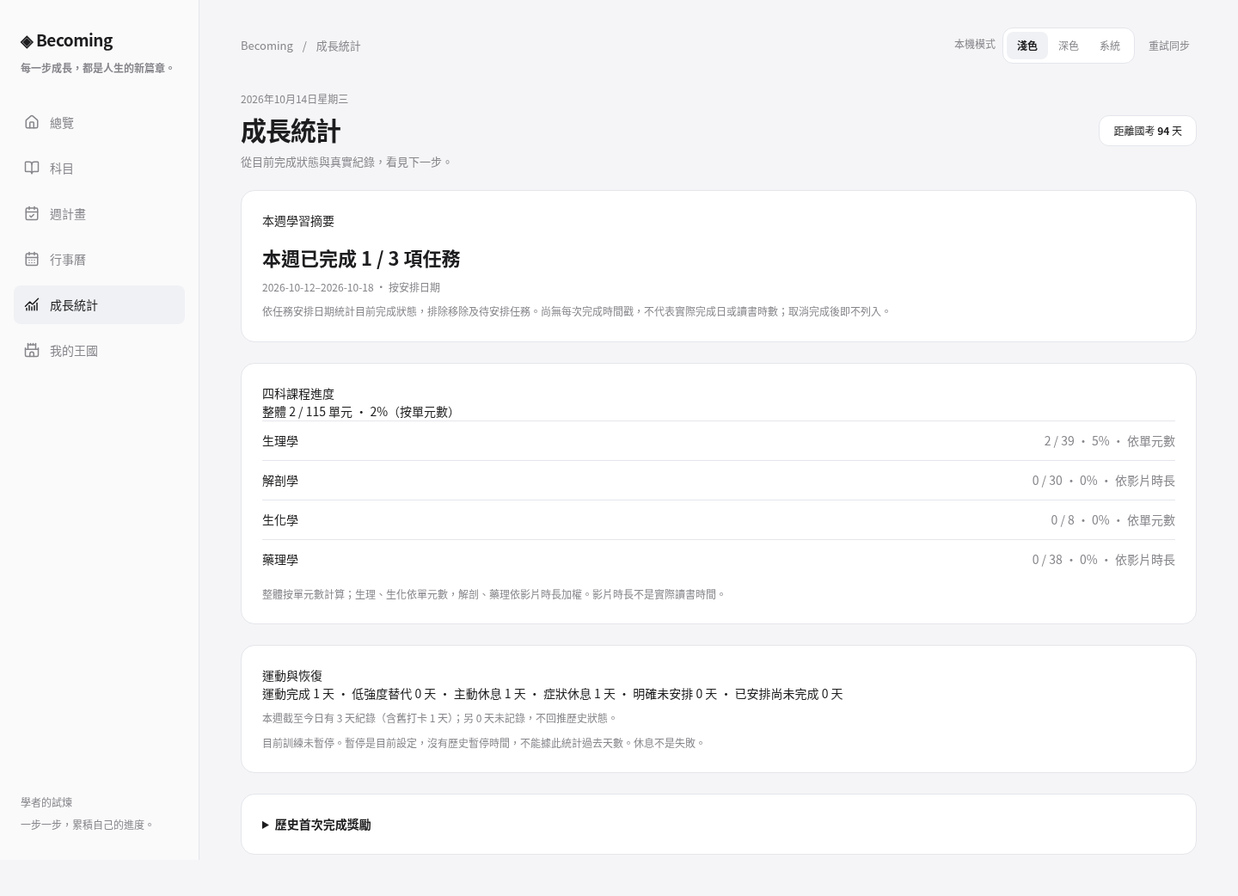
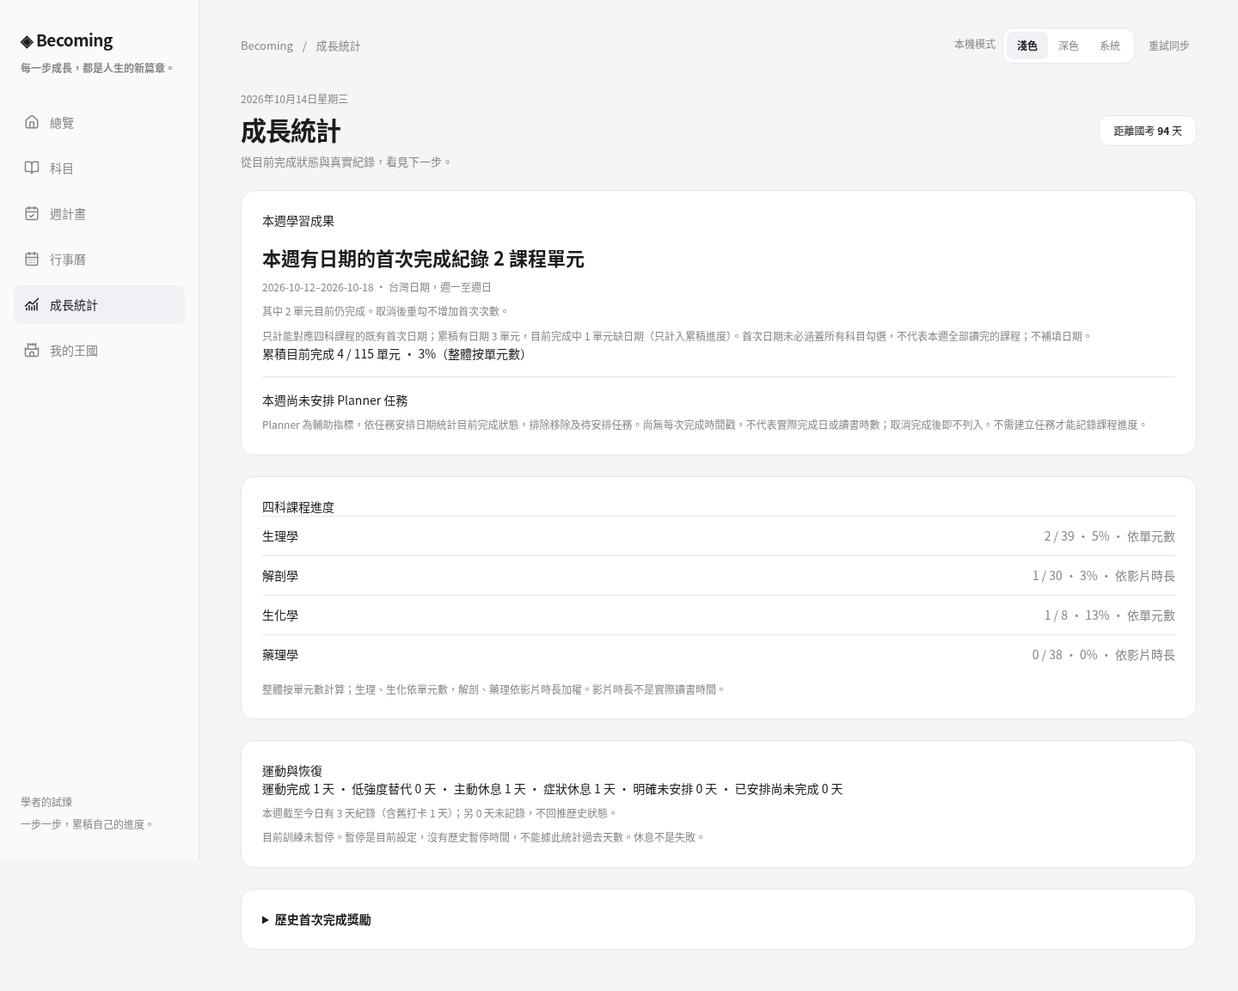
Prioritize course-backed learning outcomes in growth summary

diff --git a/tests/browser/growth.spec.js b/tests/browser/growth.spec.js
@@ -3,15 +3,29 @@ async function go(page,tab){await page.waitForFunction(()=>typeof window.updateW
 test.beforeEach(async({page})=>{await page.route('**/*',r=>new URL(r.request().url()).hostname==='127.0.0.1'?r.continue():r.abort());await page.clock.install({time:new Date('2026-10-14T04:00:00Z')});});
 async function seed(page){await page.addInitScript(()=>{if(localStorage.getItem('med_exam_daily_planner_v3_local'))return;localStorage.setItem('med_exam_daily_planner_v3_local',JSON.stringify({tasks:{a:{title:'已完成單元',date:'2026-10-12',minutes:null,complete:true,deleted:false,award:{xp:20,day:'2026-10-12'}},cancel:{title:'取消完成',date:'2026-10-12',complete:false,deleted:false,award:{xp:20,day:'2026-10-12'}},removed:{title:'已移除',date:'2026-10-12',complete:true,deleted:true,award:{xp:20,day:'2026-10-12'}}},pending:{}}));localStorage.setItem('med_exam_physio_cloud',JSON.stringify({fc_p_1_a:true}));localStorage.setItem('med_exam_habits_2026-10-12',JSON.stringify({'daily-sport':true}));localStorage.setItem('med_exam_habits_2026-10-13',JSON.stringify({questOS_v1:{exercise:{type:'rest',status:'not_scheduled'}}}));localStorage.setItem('med_exam_habits_2026-10-14',JSON.stringify({questOS_v1:{exercise:{type:'walk',status:'symptom_rest'}}}));});}
 test('growth separates current scheduled task completion from reward history and dated recovery',async({page})=>{
- await seed(page);await page.goto('/');await go(page,'stats');await expect(page.locator('#page-title')).toHaveText('成長統計');await expect(page.locator('#growth-week-tasks')).toHaveText('本週已完成 1 / 2 項任務');await expect(page.locator('#growth-week')).toContainText('依任務安排日期');await expect(page.locator('#growth-subjects [data-subject=videos]')).toContainText('依影片時長');await expect(page.locator('#growth-course-total')).toContainText('1 / 115');await expect(page.locator('#weekly-detail')).toContainText('獎勵 3 筆');await expect(page.locator('#growth-exercise')).toContainText('運動完成 1 天');await expect(page.locator('#growth-exercise')).toContainText('主動休息 1 天');await expect(page.locator('#growth-exercise')).toContainText('症狀休息 1 天');await expect(page.locator('#tab-content-stats #progress-trend-card')).toHaveCount(0);await go(page,'home');await page.locator('#planner-date').fill('2026-10-12');await page.locator('[data-task-id=a] input[type=checkbox]').uncheck();await go(page,'stats');await expect(page.locator('#growth-week-tasks')).toHaveText('本週已完成 0 / 2 項任務');await expect(page.locator('#weekly-detail')).toContainText('獎勵 3 筆');
+ await seed(page);await page.goto('/');await go(page,'stats');await expect(page.locator('#page-title')).toHaveText('成長統計');await expect(page.locator('#growth-week-tasks')).toHaveText('本週 Planner 已完成 1 / 2 項任務（依安排日期）');await expect(page.locator('#growth-week')).toContainText('依任務安排日期');await expect(page.locator('#growth-subjects [data-subject=videos]')).toContainText('依影片時長');await expect(page.locator('#growth-course-total')).toContainText('1 / 115');await expect(page.locator('#weekly-detail')).toContainText('獎勵 3 筆');await expect(page.locator('#growth-exercise')).toContainText('運動完成 1 天');await expect(page.locator('#growth-exercise')).toContainText('主動休息 1 天');await expect(page.locator('#growth-exercise')).toContainText('症狀休息 1 天');await expect(page.locator('#tab-content-stats #progress-trend-card')).toHaveCount(0);await go(page,'home');await page.locator('#planner-date').fill('2026-10-12');await page.locator('[data-task-id=a] input[type=checkbox]').uncheck();await go(page,'stats');await expect(page.locator('#growth-week-tasks')).toHaveText('本週 Planner 已完成 0 / 2 項任務（依安排日期）');await expect(page.locator('#weekly-detail')).toContainText('獎勵 3 筆');
 });
 for(const width of [390,1440])test('lord identity and accessible chronicles entry work without exposing personal account data at '+width+'px',async({page})=>{
  await page.setViewportSize({width,height:900});await seed(page);await page.goto('/');await go(page,'kingdom');await expect(page.locator('#lord-name')).toHaveText('我的領主');await expect(page.locator('.lord-emblem')).toBeVisible();expect(await page.locator('.lord-emblem').evaluate(e=>e.complete&&e.naturalWidth>0)).toBe(true);await expect(page.locator('#lord-achievements-count')).toHaveText('已解鎖 2 / 3 項成就');await expect(page.locator('#lord-study-count')).toHaveText('已完成 1 學習單元');await expect(page.locator('#lord-chapter')).toHaveText('Chapter I · 學者的試煉');const before=await page.evaluate(()=>localStorage.getItem('med_exam_daily_planner_v3_local'));const entry=page.locator('#lord-open-chronicles');await entry.focus();await entry.press('Enter');await expect(page.locator('#kingdom-chronicles')).toHaveAttribute('open','');await expect(page.locator('#kingdom-chronicles > summary')).toBeFocused();await expect(page.locator('#achievements .unlocked')).toHaveCount(2);await expect(page.locator('#xp-detail')).toHaveText('60 XP');const top=await page.locator('#kingdom-chronicles').evaluate(e=>e.getBoundingClientRect().top);expect(top).toBeGreaterThanOrEqual(-1);expect(top).toBeLessThan(200);expect(await page.evaluate(()=>localStorage.getItem('med_exam_daily_planner_v3_local'))).toBe(before);expect(await page.evaluate(()=>document.documentElement.scrollWidth<=innerWidth)).toBe(true);const order=await page.locator('#tab-content-kingdom > *').evaluateAll(es=>es.map(e=>e.id||e.className));expect(order.findIndex(v=>v.includes('lord-profile'))).toBe(0);expect(order.indexOf('kingdom-chronicles')).toBeLessThan(order.findIndex(v=>v.includes('kingdom-reality')));await go(page,'stats');expect(await page.evaluate(()=>document.documentElement.scrollWidth<=innerWidth)).toBe(true);
 });
 test('growth empty states and historical pause limitations are explicit',async({page})=>{
- await page.goto('/');await go(page,'stats');await expect(page.locator('#growth-week-dates')).toContainText('尚無有效安排');await expect(page.locator('#growth-exercise-records')).toContainText('尚無運動日紀錄');await expect(page.locator('#growth-training-paused')).toContainText('沒有歷史暫停時間');await expect(page.locator('#growth-award-total')).toContainText('累積 0 筆');
+ await page.goto('/');await go(page,'stats');await expect(page.locator('#growth-week-dates')).toContainText('台灣日期');await expect(page.locator('#growth-exercise-records')).toContainText('尚無運動日紀錄');await expect(page.locator('#growth-training-paused')).toContainText('沒有歷史暫停時間');await expect(page.locator('#growth-award-total')).toContainText('累積 0 筆');
 });
 
 for(const width of [390,1440])test('single week trend stays in plan and all three course basis notes agree at '+width+'px',async({page})=>{
  await page.setViewportSize({width,height:900});await seed(page);await page.goto('/');await go(page,'home');const home=await page.locator('#tab-content-home [data-course-progress-basis]').textContent();await go(page,'stats');await expect(page.locator('#tab-content-stats #progress-trend-card')).toHaveCount(0);expect(await page.locator('#tab-content-stats [data-course-progress-basis]').textContent()).toBe(home);await go(page,'kingdom');expect(await page.locator('#tab-content-kingdom [data-course-progress-basis]').textContent()).toBe(home);await expect(page.locator('#kingdom-subjects [data-subject=videos]')).toContainText('依影片時長');await expect(page.locator('#kingdom-subjects [data-subject=pharmacology]')).toContainText('依影片時長');await go(page,'plan');await expect(page.locator('#tab-content-plan #progress-trend-card')).toBeVisible();await expect(page.locator('#progress-trend-card')).toContainText('不是過去各週的完成快照');await expect(page.locator('#progress-trend-card .recharts-wrapper')).toBeVisible();await page.evaluate(()=>window.switchTrendChartMode('rolling'));await expect(page.locator('#progress-trend-card .recharts-wrapper')).toBeVisible();await expect(page.locator('#progress-trend-card')).toHaveCount(1);await expect(page.locator('#tab-content-plan #adaptive-plan')).toBeVisible();expect(await page.evaluate(()=>document.documentElement.scrollWidth<=innerWidth)).toBe(true);
+});
+
+test('direct subject completion updates cumulative course results without Planner or invented first dates',async({page})=>{
+ await page.goto('/');await page.waitForFunction(()=>typeof window.updateWorkspace==='function');await page.evaluate(()=>window.showStudyItem('physiology','fc_p_1_a'));await page.locator('[data-study-key="physiology__fc_p_1_a"] input').check();await go(page,'stats');await expect(page.locator('#growth-course-total')).toContainText('1 / 115');await expect(page.locator('#growth-week-tasks')).toHaveText('本週尚未安排 Planner 任務');await expect(page.locator('#growth-course-coverage')).toContainText('1 單元缺日期');await expect(page.locator('#growth-week-courses')).toContainText('尚缺課程日期');expect(await page.evaluate(()=>JSON.parse(localStorage.getItem('med_exam_gamification_v1')||'{}').awards||{})).toEqual({});await go(page,'home');await expect(page.locator('#overall-detail')).toHaveText('1 / 115 項目');
+});
+test('dated course-only records remain stable on cancel and recheck and exclude Planner/time rewards',async({page})=>{
+ await page.addInitScript(()=>{localStorage.setItem('med_exam_physio_cloud',JSON.stringify({fc_p_1_a:true}));localStorage.setItem('med_exam_gamification_v1',JSON.stringify({days:{},awards:{physiology__fc_p_1_a:{xp:20,day:'2026-10-12'},planner__other:{xp:20,day:'2026-10-12'},time__2026_10_12__morning:{xp:20,day:'2026-10-12'},physiology__orphan:{xp:20,day:'2026-10-12'}}}));});await page.goto('/');await go(page,'stats');await expect(page.locator('#growth-week-courses')).toHaveText('本週有日期的首次完成紀錄 1 課程單元');await expect(page.locator('#growth-course-total')).toContainText('1 / 115');await expect(page.locator('#growth-week-tasks')).toHaveText('本週尚未安排 Planner 任務');const before=await page.evaluate(()=>localStorage.getItem('med_exam_gamification_v1'));await page.evaluate(()=>window.showStudyItem('physiology','fc_p_1_a'));await page.locator('[data-study-key="physiology__fc_p_1_a"] input').uncheck();await go(page,'stats');await expect(page.locator('#growth-week-courses')).toContainText('1 課程單元');await expect(page.locator('#growth-course-history-state')).toContainText('1 單元目前未勾選完成');await expect(page.locator('#growth-course-total')).toContainText('0 / 115');await page.evaluate(()=>window.showStudyItem('physiology','fc_p_1_a'));await page.locator('[data-study-key="physiology__fc_p_1_a"] input').check();await go(page,'stats');await expect(page.locator('#growth-week-courses')).toContainText('1 課程單元');expect(await page.evaluate(()=>localStorage.getItem('med_exam_gamification_v1'))).toBe(before);
+});
+test('remote and offline course award snapshots count stable IDs once without creating new rewards',async({page})=>{
+ await page.route('**/owner-config.js',r=>r.fulfill({contentType:'application/javascript',body:"export const OWNER_UID='test-owner';"}));await page.addInitScript(()=>{
+ Object.defineProperty(window,'workspaceLocalOnly',{get:()=>false,set:()=>{}});const records={physiology:{fc_p_1_a:true},biochem:{},gamification:{v1:{awards:{physiology__fc_p_1_a:{xp:20,day:'2026-10-12'}}}}},listeners=[];let online=true;const get=path=>path?path.split('/').reduce((v,k)=>v?.[k],records)??null:records,snap=path=>({val:()=>path==='.info/connected'?online:structuredClone(get(path))});const notify=()=>listeners.forEach(l=>{if(online||l.path==='.info/connected')l.fn(snap(l.path));});
+ const db={ref:(path='')=>({on(e,fn){listeners.push({path,fn});setTimeout(()=>fn(snap(path)),0);},async once(){if(!online)throw {code:'NETWORK_ERROR'};return snap(path);},async transaction(fn){if(!online)throw {code:'NETWORK_ERROR'};const value=fn(structuredClone(get(path)));return {committed:value!==undefined,snapshot:snap(path)};},async update(){if(!online)throw {code:'NETWORK_ERROR'};}})};
+ window.firebase={apps:[],initializeApp(){this.apps.push({});},auth:()=>({onAuthStateChanged:cb=>setTimeout(()=>cb({uid:'test-owner'}),0)}),database:()=>db};window.courseMock={records,remote(kind){if(kind===2){records.biochem['1']=true;records.gamification.v1.awards.biochem__1={xp:20,day:'2026-10-13'};}else{records.physiology.fc_p_1_b=true;records.gamification.v1.awards.physiology__fc_p_1_b={xp:20,day:'2026-10-14'};}notify();},setOnline(value){online=value;notify();if(value)window.dispatchEvent(new Event('online'));}};
+ });await page.goto('/');await go(page,'stats');await expect(page.locator('#growth-week-courses')).toContainText('1 課程單元');await page.evaluate(()=>{window.courseMock.remote(2);window.courseMock.remote(2);});await expect(page.locator('#growth-week-courses')).toContainText('2 課程單元');await page.evaluate(()=>{window.courseMock.setOnline(false);window.courseMock.remote(3);});await go(page,'home');await go(page,'stats');await expect(page.locator('#growth-week-courses')).toContainText('2 課程單元');await page.evaluate(()=>window.courseMock.setOnline(true));await expect(page.locator('#growth-week-courses')).toContainText('3 課程單元');await expect(page.locator('#growth-course-total')).toContainText('3 / 115');expect(await page.evaluate(()=>Object.keys(window.courseMock.records.gamification.v1.awards).length)).toBe(3);await expect(page.locator('#growth-week-tasks')).toHaveText('本週尚未安排 Planner 任務');
 });

diff --git a/growth-ui.js b/growth-ui.js
@@ -1,18 +1,21 @@
 import {growthSnapshot} from './growth-core.js';
 import {dateKey,COURSE_PROGRESS_NOTE} from './study-core.js';
 const node=(tag,cls='',text)=>{const e=document.createElement(tag);e.className=cls;if(text!==undefined)e.textContent=text;return e;};
-export function createGrowthUI({data,states,planner,life,awards,today=()=>dateKey()}) {
+export function createGrowthUI({data,states,planner,life,awards,courseAwards=()=>({}),today=()=>dateKey()}) {
  const page=document.getElementById('tab-content-stats');
- const summary=node('section','workspace-panel');summary.id='growth-week';summary.innerHTML='<h3>本週學習摘要</h3><p id="growth-week-tasks" class="growth-main-number"></p><p id="growth-week-dates" class="workspace-note"></p><p class="workspace-note">依任務安排日期統計目前完成狀態，排除移除及待安排任務。尚無每次完成時間戳，不代表實際完成日或讀書時數；取消完成後即不列入。</p>';
- const courses=node('section','workspace-panel');courses.innerHTML='<h3>四科課程進度</h3><p id="growth-course-total"></p><div id="growth-subjects"></div><p class="workspace-note" data-course-progress-basis>'+COURSE_PROGRESS_NOTE+'</p>';
+ const summary=node('section','workspace-panel');summary.id='growth-week';summary.innerHTML='<h3>本週學習成果</h3><p id="growth-week-courses" class="growth-main-number"></p><p id="growth-week-dates" class="workspace-note"></p><p id="growth-course-history-state" class="workspace-note"></p><p id="growth-course-coverage" class="workspace-note"></p><p id="growth-course-total"></p><div class="growth-planner-summary"><p id="growth-week-tasks"></p><p class="workspace-note">Planner 為輔助指標，依任務安排日期統計目前完成狀態，排除移除及待安排任務。尚無每次完成時間戳，不代表實際完成日或讀書時數；取消完成後即不列入。不需建立任務才能記錄課程進度。</p></div>';
+ const courses=node('section','workspace-panel');courses.innerHTML='<h3>四科課程進度</h3><div id="growth-subjects"></div><p class="workspace-note" data-course-progress-basis>'+COURSE_PROGRESS_NOTE+'</p>';
  page.prepend(summary,courses);
 
  const exercise=node('section','workspace-panel');exercise.innerHTML='<h3>運動與恢復</h3><p id="growth-exercise"></p><p id="growth-exercise-records" class="workspace-note"></p><p id="growth-training-paused" class="workspace-note"></p>';
  const history=node('details','workspace-panel growth-history');history.innerHTML='<summary>歷史首次完成獎勵</summary><p id="weekly-detail"></p><p id="growth-award-total"></p><p class="workspace-note">獎勵事件包含課程、Planner 與舊時間目標；取消、改期、移除或復原不新增獎勵。它不是目前任務完成數、學習量或讀書時數，也不是王國資源。</p>';page.append(exercise,history);
- function render(){const s=growthSnapshot({data,states:states(),tasks:planner.all(),awards:awards(),day:today(),getHabits:life.habits,training:life.training()});
-  summary.querySelector('#growth-week-tasks').textContent=`本週已完成 ${s.tasks.done} / ${s.tasks.total} 項任務`;
-  summary.querySelector('#growth-week-dates').textContent=s.start+'–'+s.end+' · 按安排日期'+(!s.tasks.total?' · 本週尚無有效安排':'');
-  courses.querySelector('#growth-course-total').textContent=`整體 ${s.courses.done} / ${s.courses.total} 單元 · ${s.courses.percent}%（按單元數）`;
+ function render(){const s=growthSnapshot({data,states:states(),tasks:planner.all(),awards:awards(),courseAwards:courseAwards(),day:today(),getHabits:life.habits,training:life.training()});
+  summary.querySelector('#growth-week-courses').textContent=s.firstCourses.datedTotal?`本週有日期的首次完成紀錄 ${s.firstCourses.weekly} 課程單元`:'首次完成紀錄尚缺課程日期';
+  summary.querySelector('#growth-week-dates').textContent=s.start+'–'+s.end+' · 台灣日期，週一至週日';
+  summary.querySelector('#growth-course-history-state').textContent=`其中 ${s.firstCourses.weeklyCurrent} 單元目前仍完成${s.firstCourses.weeklyUnchecked?'；'+s.firstCourses.weeklyUnchecked+' 單元目前未勾選完成，首次完成歷史仍保留':''}。取消後重勾不增加首次次數。`;
+  summary.querySelector('#growth-course-coverage').textContent=`只計能對應四科課程的既有首次日期；累積有日期 ${s.firstCourses.datedTotal} 單元${s.firstCourses.undatedCurrent?'，目前完成中 '+s.firstCourses.undatedCurrent+' 單元缺日期（只計入累積進度）':''}。首次日期未必涵蓋所有科目勾選，不代表本週全部讀完的課程；不補填日期。`;
+  summary.querySelector('#growth-course-total').textContent=`累積目前完成 ${s.courses.done} / ${s.courses.total} 單元 · ${s.courses.percent}%（整體按單元數）`;
+  summary.querySelector('#growth-week-tasks').textContent=s.tasks.total?`本週 Planner 已完成 ${s.tasks.done} / ${s.tasks.total} 項任務（依安排日期）`:'本週尚未安排 Planner 任務';
   const list=courses.querySelector('#growth-subjects');list.replaceChildren();for(const subject of s.subjects){const row=node('div','kingdom-subject');row.dataset.subject=subject.path;row.append(node('span','',subject.title),node('span','',`${subject.done} / ${subject.total} · ${subject.percent}% · ${['videos','pharmacology'].includes(subject.path)?'依影片時長':'依單元數'}`));list.append(row);}
   const e=s.exercise;exercise.querySelector('#growth-exercise').textContent=`運動完成 ${e.complete} 天 · 低強度替代 ${e.alternative} 天 · 主動休息 ${e.rest} 天 · 症狀休息 ${e.symptomRest} 天 · 明確未安排 ${e.unplanned} 天 · 已安排尚未完成 ${e.pending} 天`;
   exercise.querySelector('#growth-exercise-records').textContent=e.recorded?`本週截至今日有 ${e.recorded} 天紀錄${e.legacy?'（含舊打卡 '+e.legacy+' 天）':''}；另 ${e.unrecorded} 天未記錄，不回推歷史狀態。`:'本週截至今日尚無運動日紀錄，不依目前課表回填休息或未安排。';

diff --git a/growth-core.js b/growth-core.js
@@ -1,9 +1,18 @@
-import {weekKey,subjectStats,gameStats} from './study-core.js';
+import {validDate} from './daily-planner.js';
+import {weekKey,subjectStats,gameStats,flattenSubjects,awardKey} from './study-core.js';
 import {addDays} from './adaptive-core.js';
-export function growthSnapshot({data,states,tasks,awards={},day,getHabits,training}) {
+export function growthSnapshot({data,states,tasks,awards={},courseAwards={},day,getHabits,training}) {
   const start=weekKey(day),end=addDays(start,6),unique=new Map(tasks.map(task=>[task.id,task]));
   const weekly=[...unique.values()].filter(t=>!t.deleted&&!t.planning?.waiting&&t.date>=start&&t.date<=end),completed=weekly.filter(t=>t.complete);
   const subjects=subjectStats(data,states),done=subjects.reduce((n,s)=>n+s.done,0),total=subjects.reduce((n,s)=>n+s.total,0);
+  const units=new Map(flattenSubjects(data).map(unit=>[awardKey(unit),unit]));
+  const dated=[],undatedCurrent=[];
+  for(const [key,unit] of units){const award=courseAwards[key],currentlyComplete=!!states[unit.path]?.[unit.id];
+    if(award?.xp===20&&validDate(award.day)&&award.day<=day)dated.push({key,day:award.day,currentlyComplete});
+    else if(currentlyComplete)undatedCurrent.push(key);
+  }
+  const firstThisWeek=dated.filter(record=>record.day>=start&&record.day<=end);
+  const firstCourses={weekly:firstThisWeek.length,weeklyCurrent:firstThisWeek.filter(record=>record.currentlyComplete).length,weeklyUnchecked:firstThisWeek.filter(record=>!record.currentlyComplete).length,datedTotal:dated.length,undatedCurrent:undatedCurrent.length};
   const exercise={complete:0,alternative:0,rest:0,symptomRest:0,unplanned:0,pending:0,unrecorded:0,legacy:0,recorded:0};
   for(let i=0;i<7;i++){const date=addDays(start,i);if(date>day)break;const habits=getHabits(date),record=habits.questOS_v1?.exercise;
     if(!record){if(habits['daily-sport']){exercise.complete++;exercise.legacy++;exercise.recorded++;}else exercise.unrecorded++;continue;}
@@ -16,5 +25,5 @@ export function growthSnapshot({data,states,tasks,awards={},day,getHabits,traini
     else exercise.pending++;
   }
   const historical=gameStats(awards,day);
-  return {start,end,tasks:{done:completed.length,total:weekly.length,undatedCompletion:completed.length,dateBasis:'scheduled'},courses:{done,total,percent:total?Math.round(done/total*100):0},subjects,exercise,paused:!!training.paused,historical:{weekly:historical.weekly,total:historical.xp/20,xp:historical.xp}};
+  return {start,end,tasks:{done:completed.length,total:weekly.length,undatedCompletion:completed.length,dateBasis:'scheduled'},courses:{done,total,percent:total?Math.round(done/total*100):0},subjects,firstCourses,exercise,paused:!!training.paused,historical:{weekly:historical.weekly,total:historical.xp/20,xp:historical.xp}};
 }

diff --git a/tests/growth.test.js b/tests/growth.test.js
@@ -25,3 +25,16 @@ test('exercise uses only dated evidence and does not infer historical rest or pa
 test('future exercise records are excluded and reading growth is pure',()=>{
  const value={...input,tasks:[task('a')],awards:{a:{xp:20,day:'2026-10-12'}}},before=JSON.stringify(value);const result=growthSnapshot({...value,getHabits:day=>day==='2026-10-15'?{'daily-sport':true}:{}});assert.equal(result.exercise.complete,0);assert.equal(JSON.stringify(value),before);
 });
+
+test('only canonical valid course awards enter weekly first-completion records, independent of current check state',()=>{
+ const courseAwards={videos__1:{xp:20,day:'2026-10-12'},physiology__p:{xp:20,day:'2026-10-13'},biochem__1:{xp:20,day:'2026-10-11'},pharmacology__1:{xp:20,day:'2026-10-14'},videos__999:{xp:20,day:'2026-10-12'},alias:{xp:20,day:'2026-10-12',path:'videos',id:'1'},planner__a:{xp:20,day:'2026-10-12'},time__2026_10_12__morning:{xp:20,day:'2026-10-12'}};
+ const s=growthSnapshot({...input,courseAwards});assert.equal(s.firstCourses.weekly,3);assert.equal(s.firstCourses.weeklyCurrent,1);assert.equal(s.firstCourses.weeklyUnchecked,2);assert.equal(s.firstCourses.datedTotal,4);assert.equal(s.tasks.total,0);assert.equal(s.courses.done,1);
+ const repeated=growthSnapshot({...input,states:{videos:{1:true},physiology:{p:true}},courseAwards});assert.equal(repeated.firstCourses.weekly,3);assert.equal(repeated.firstCourses.weeklyCurrent,2);
+});
+test('legacy checked courses without valid dates stay in cumulative progress without being assigned to this week',()=>{
+ const s=growthSnapshot({...input,states:{videos:{1:true,2:true},biochem:{1:true},pharmacology:{1:true}},courseAwards:{videos__1:{xp:20},videos__2:{xp:20,day:'2026-02-30'},pharmacology__1:{xp:20,day:'2026-10-15'},biochem__1:{xp:99,day:'2026-10-12'}}});assert.equal(s.courses.done,4);assert.equal(s.firstCourses.weekly,0);assert.equal(s.firstCourses.undatedCurrent,4);assert.equal(s.firstCourses.datedTotal,0);
+});
+test('Sunday and Monday follow Taipei calendar week boundaries without changing earliest awards',()=>{
+ const courseAwards={videos__1:{xp:20,day:'2026-10-11'},physiology__p:{xp:20,day:'2026-10-12'}},before=JSON.stringify(courseAwards);
+ const sunday=growthSnapshot({...input,day:'2026-10-11',courseAwards}),monday=growthSnapshot({...input,day:'2026-10-12',courseAwards});assert.equal(sunday.start,'2026-10-05');assert.equal(sunday.firstCourses.weekly,1);assert.equal(monday.start,'2026-10-12');assert.equal(monday.firstCourses.weekly,1);assert.equal(JSON.stringify(courseAwards),before);
+});

diff --git a/workspace.js b/workspace.js
@@ -110,7 +110,7 @@ const lifeUI=createLifeUI({store:life,planner});
 const weekUI=createWeekPlanUI({data,openPlanner:week=>plannerUI.open(week)});
 const adaptiveUI=createAdaptiveUI({data,planner,settings:studySettings,context:studyContext,states,courseAwards:()=>game.awards,events:()=>window.readCalendarEvents()||{}});
 const kingdomUI=createKingdomUI({data,states,planner,settings:studySettings,life,awards:readAwards});
-const growthUI=createGrowthUI({data,states,planner,life,awards:readAwards});
+const growthUI=createGrowthUI({data,states,planner,life,awards:readAwards,courseAwards:()=>game.awards});
 window.renderBiochemUnits?.();window.renderCalendar?.();
 document.querySelectorAll('[data-go]').forEach(button=>button.addEventListener('click',()=>window.switchTab(button.dataset.go)));
 const appearance=document.getElementById('appearance');

diff --git a/workspace.css b/workspace.css
@@ -429,3 +429,5 @@ input[type=checkbox] { width:18px; height:18px; accent-color:var(--accent); flex
 
 .growth-main-number { font-size:22px; margin:16px 0 8px; font-weight:600; }
 .growth-history summary { cursor:pointer; font-weight:600; }
+
+.growth-planner-summary { border-top:1px solid var(--line); padding-top:16px; margin-top:16px; }
